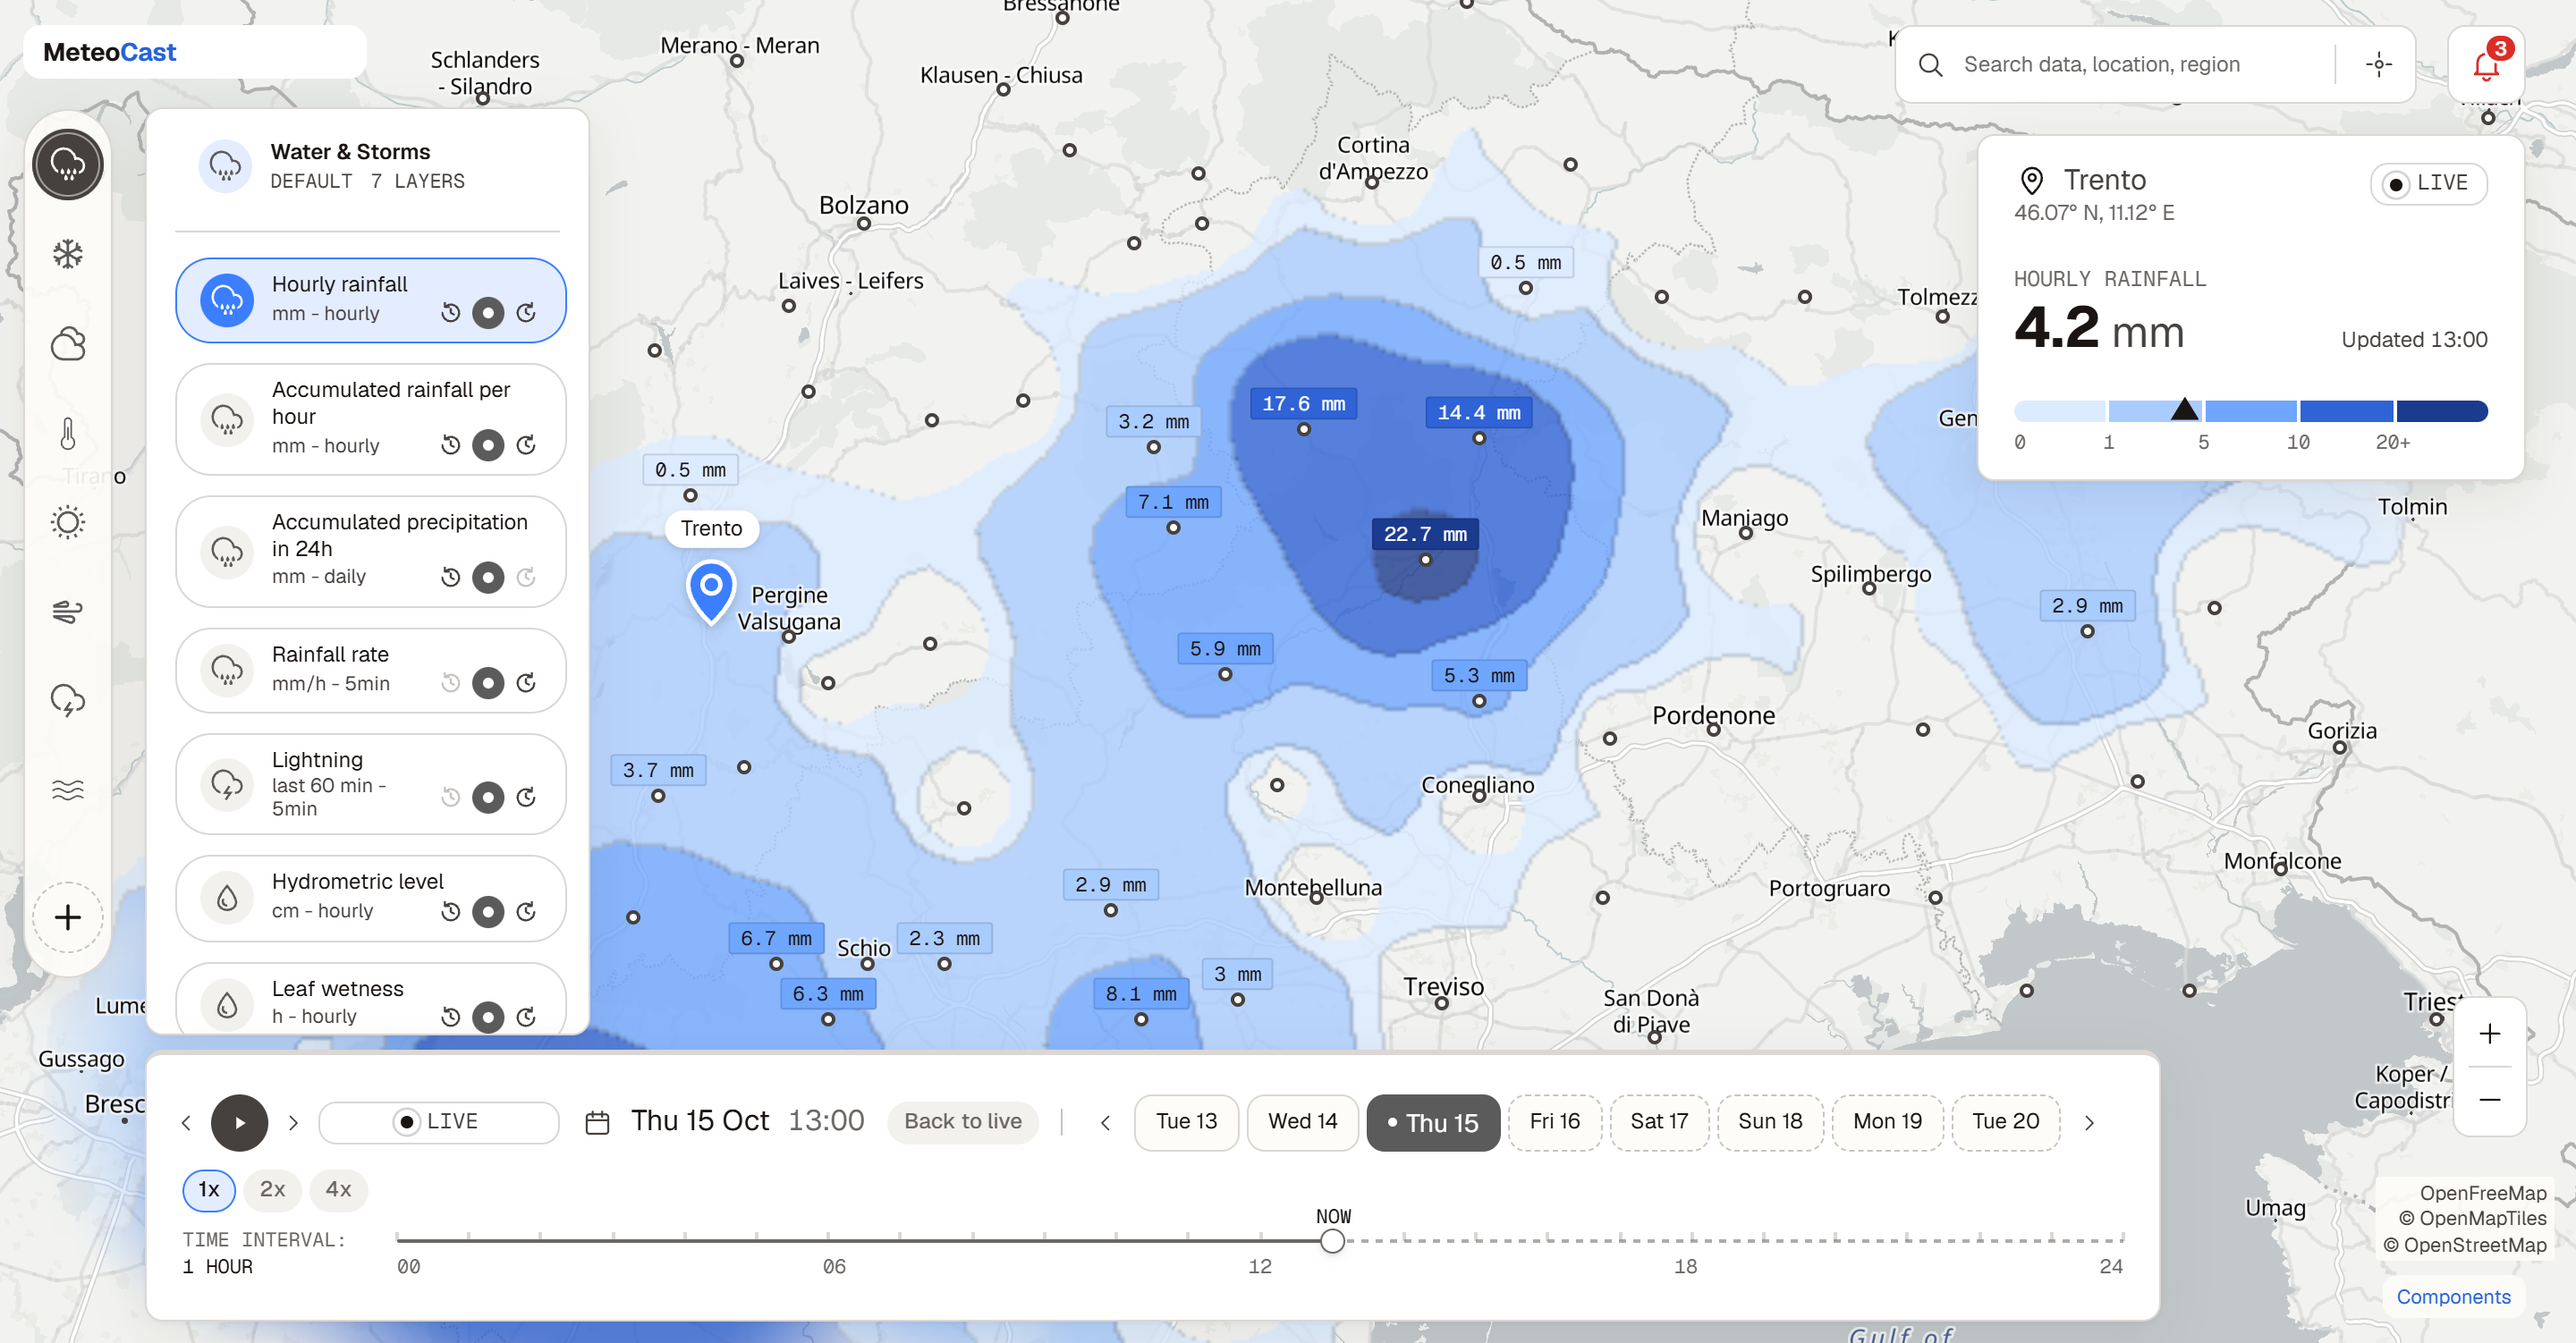
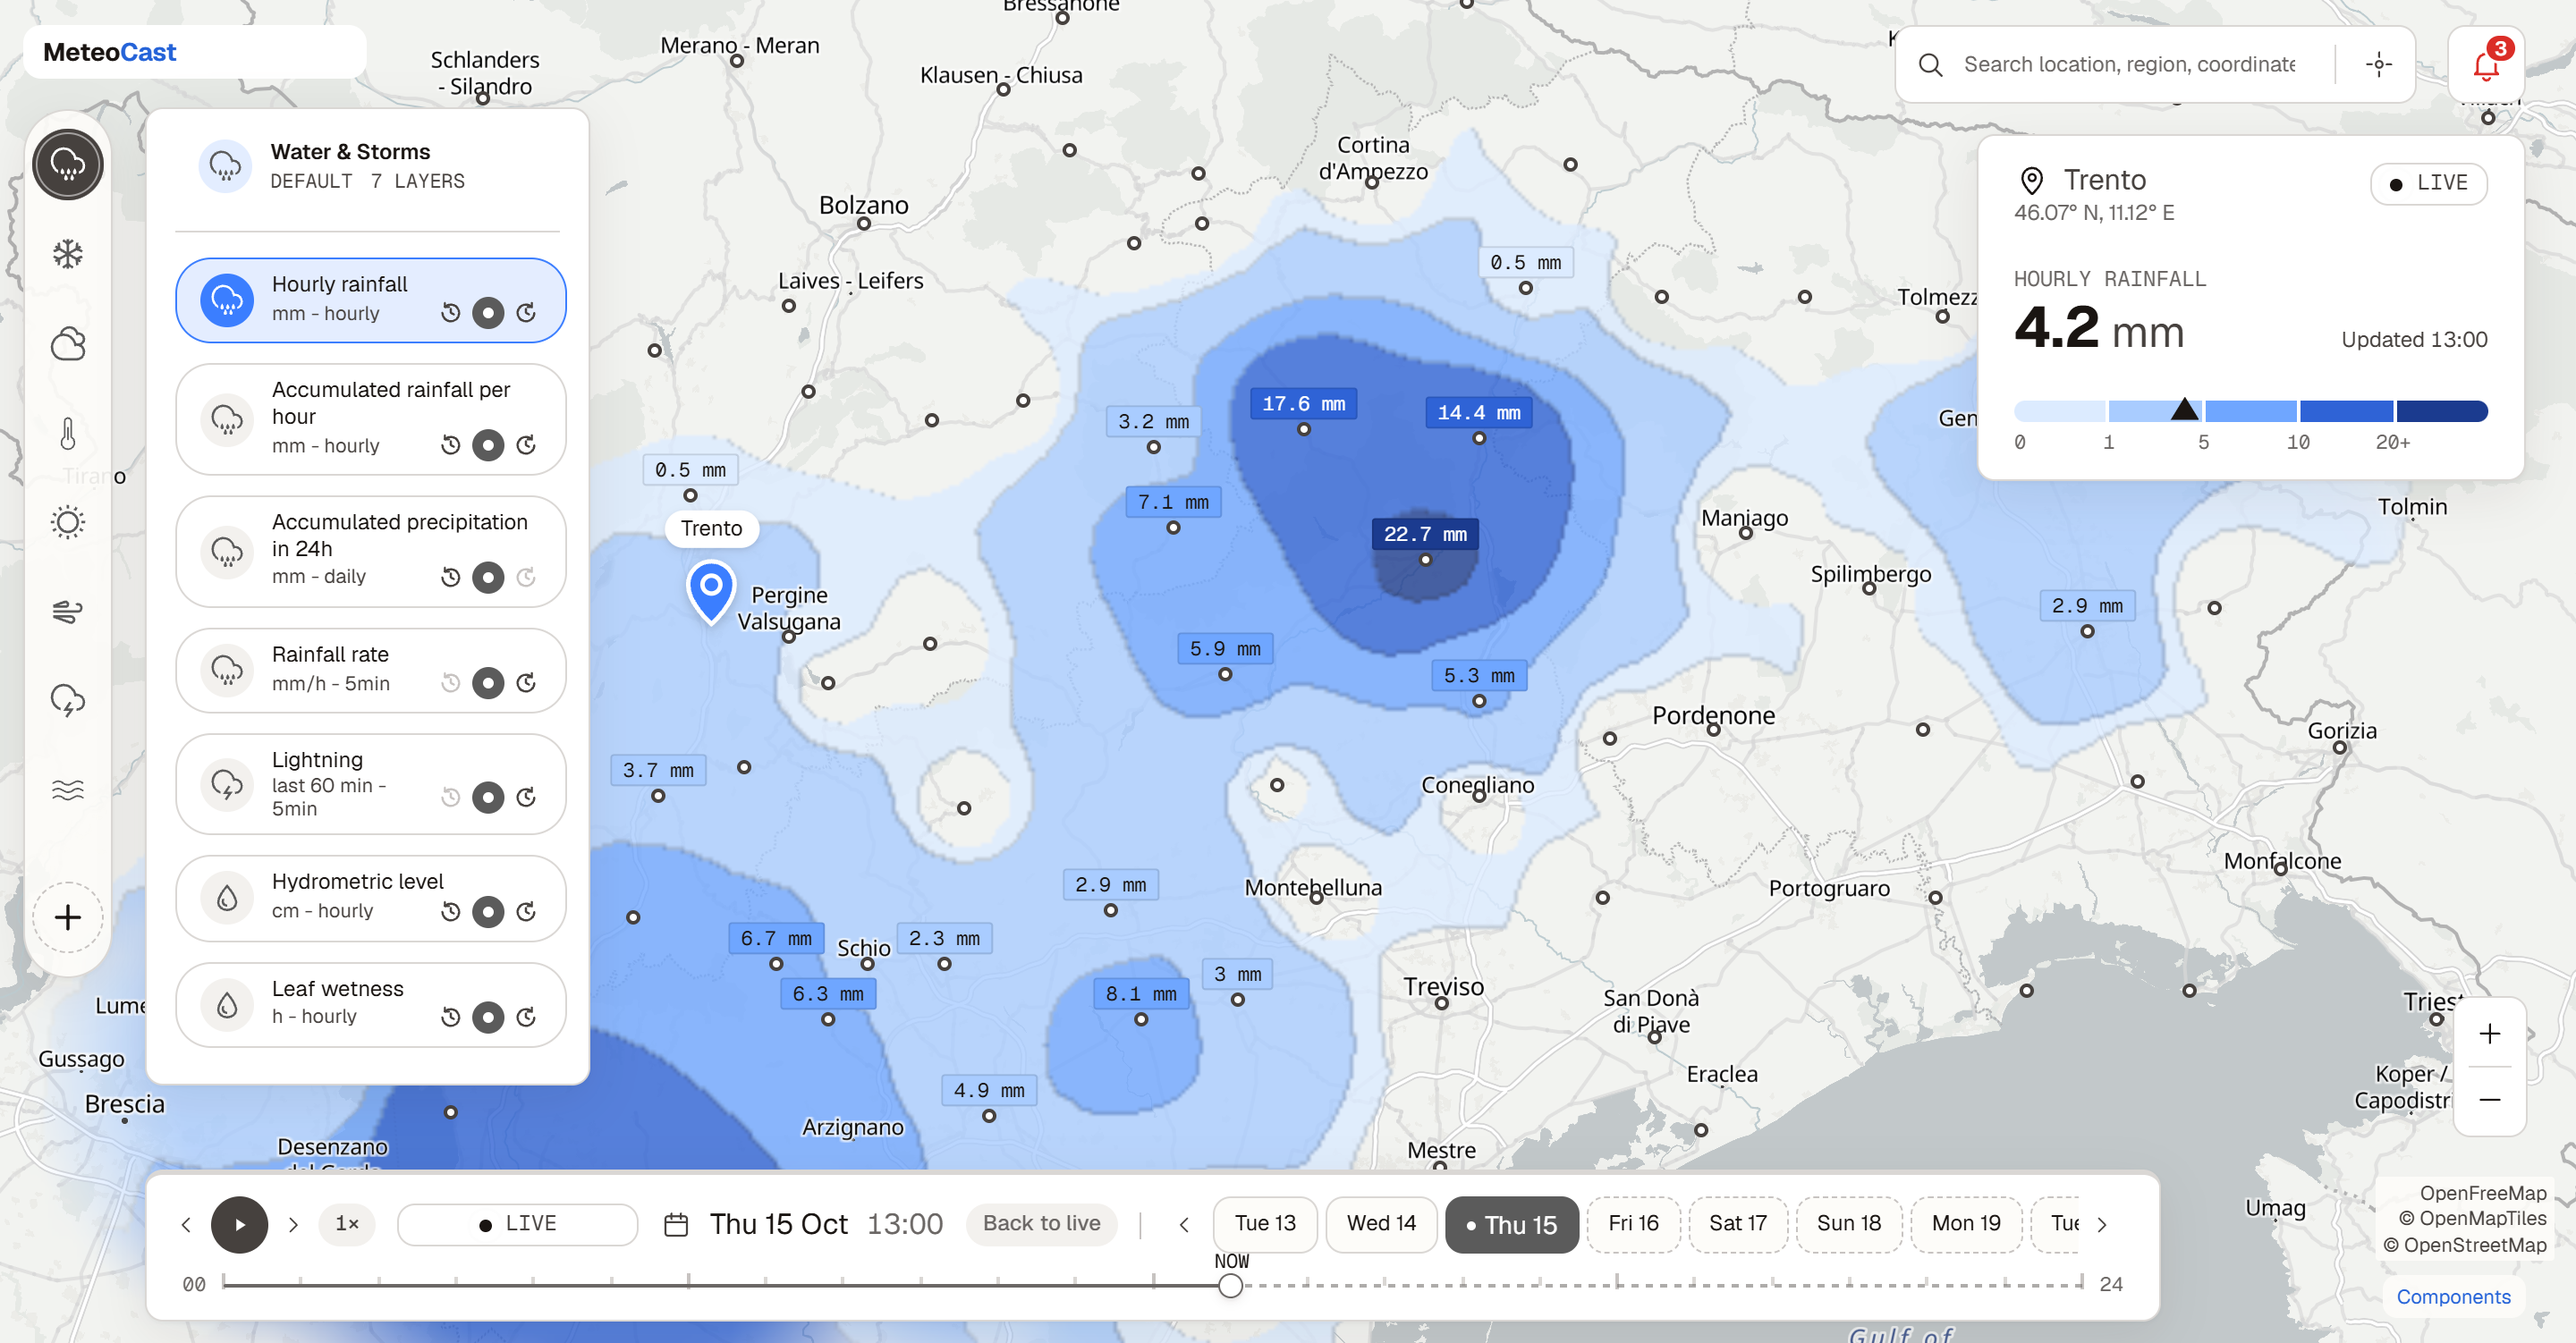
Compact timebar (concept A): two rows, 84px instead of about 150
Designer decision: the timeline was too bulky. Row 1 keeps the controls and
the days, with the playback speed as one button that cycles 1x, 2x, 4x
next to the player. Row 2 is the hour track alone, full width, with 00 and
24 at its ends and longer ticks every 6 hours; the "Time interval" label
goes, the ticks say it. Daily layers: one row, 61px. The layer panel and
the Rail now reach 10px above the timebar.

Changed region(s): [[0.0312, 0.7656, 0.8438, 0.9494], [0.7812, 0.0306, 0.875, 0.0613]]

diff --git a/src/components/Timebar/Timebar.tsx b/src/components/Timebar/Timebar.tsx
@@ -39,6 +39,7 @@ export type TimebarProps = {
 }
 
 const HOURS = Array.from({ length: 25 }, (_, h) => h)
+const SPEEDS: Speed[] = [1, 2, 4]
 const pct = (h: number) => `${(h / 24) * 100}%`
 
 /** Figma: Timeline (2010:10063) — named Timebar in code. One timeline for Archive, Live and Forecast. */
@@ -146,6 +147,17 @@ export function Timebar({
             </button>
           </div>
 
+          {/* One button instead of three chips: each click moves to the next speed (compact timebar, concept A). */}
+          <button
+            type="button"
+            className={styles.speed}
+            aria-label={`${speed}× speed`}
+            title="Playback speed: 1×, 2× or 4×"
+            onClick={() => onSpeedChange?.(SPEEDS[(SPEEDS.indexOf(speed) + 1) % SPEEDS.length])}
+          >
+            {speed}×
+          </button>
+
           <span className={styles.badgeSlot}>
             <ModeBadge mode={mode} offset={offset} />
           </span>
@@ -176,68 +188,47 @@ export function Timebar({
         </div>
       </div>
 
-      <div className={styles.row2}>
-        <div className={styles.speeds} role="group" aria-label="Playback speed">
-          {([1, 2, 4] as const).map((s) => (
-            <button key={s} type="button" className={styles.speed} aria-pressed={speed === s} onClick={() => onSpeedChange?.(s)}>
-              {s}x
-            </button>
-          ))}
-        </div>
-
-        <div className={styles.bottom}>
-          <p className={styles.interval}>
-            <span className={styles.intervalLabel}>Time interval:</span>
-            <span>{daily ? '1 day' : '1 hour'}</span>
-          </p>
-
-          {!daily && (
-            <div className={styles.trackWrap}>
-              <div
-                ref={trackRef}
-                className={styles.track}
-                onPointerDown={onTrackPointerDown}
-                onPointerMove={onTrackPointerMove}
-              >
-                <div className={styles.ticks} aria-hidden="true">
-                  {HOURS.map((h) => (
-                    <span key={h} className={styles.tick} style={{ left: pct(h) }} />
-                  ))}
-                </div>
-                {unavailableHours.map((h) => (
-                  <span key={h} className={styles.gap} style={{ left: pct(h), width: pct(1) }} aria-hidden="true" />
-                ))}
-                {solidTo < 24 && (
-                  <span className={styles.lineDashed} style={{ left: pct(solidTo), right: 0 }} aria-hidden="true" />
-                )}
-                {solidTo > 0 && <span className={styles.lineSolid} style={{ left: 0, width: pct(solidTo) }} aria-hidden="true" />}
-                {selected?.time === 'today' && nowHour !== undefined && (
-                  <span className={styles.now} style={{ left: pct(nowHour) }} aria-hidden="true">
-                    <span className={styles.nowTag}>Now</span>
-                  </span>
-                )}
-                <span
-                  className={styles.thumb}
-                  style={{ left: pct(selectedHour) }}
-                  role="slider"
-                  tabIndex={0}
-                  aria-label="Hour"
-                  aria-valuemin={0}
-                  aria-valuemax={23}
-                  aria-valuenow={selectedHour}
-                  aria-valuetext={valueText}
-                  aria-keyshortcuts="ArrowLeft ArrowRight Shift+ArrowLeft Shift+ArrowRight Home End"
-                />
-              </div>
-              <div className={styles.labels} aria-hidden="true">
-                {['00', '06', '12', '18', '24'].map((l) => (
-                  <span key={l}>{l}</span>
+      {!daily && (
+        <div className={styles.trackRow}>
+          <span className={styles.end} aria-hidden="true">
+            00
+          </span>
+          <div className={styles.trackWrap}>
+            <div ref={trackRef} className={styles.track} onPointerDown={onTrackPointerDown} onPointerMove={onTrackPointerMove}>
+              <div className={styles.ticks} aria-hidden="true">
+                {HOURS.map((h) => (
+                  <span key={h} className={styles.tick} data-major={h % 6 === 0 || undefined} style={{ left: pct(h) }} />
                 ))}
               </div>
+              {unavailableHours.map((h) => (
+                <span key={h} className={styles.gap} style={{ left: pct(h), width: pct(1) }} aria-hidden="true" />
+              ))}
+              {solidTo < 24 && <span className={styles.lineDashed} style={{ left: pct(solidTo), right: 0 }} aria-hidden="true" />}
+              {solidTo > 0 && <span className={styles.lineSolid} style={{ left: 0, width: pct(solidTo) }} aria-hidden="true" />}
+              {selected?.time === 'today' && nowHour !== undefined && (
+                <span className={styles.now} style={{ left: pct(nowHour) }} aria-hidden="true">
+                  <span className={styles.nowTag}>Now</span>
+                </span>
+              )}
+              <span
+                className={styles.thumb}
+                style={{ left: pct(selectedHour) }}
+                role="slider"
+                tabIndex={0}
+                aria-label="Hour"
+                aria-valuemin={0}
+                aria-valuemax={23}
+                aria-valuenow={selectedHour}
+                aria-valuetext={valueText}
+                aria-keyshortcuts="ArrowLeft ArrowRight Shift+ArrowLeft Shift+ArrowRight Home End"
+              />
             </div>
-          )}
+          </div>
+          <span className={styles.end} aria-hidden="true">
+            24
+          </span>
         </div>
-      </div>
+      )}
     </section>
   )
 }

diff --git a/src/components/Timebar/Timebar.module.css b/src/components/Timebar/Timebar.module.css
@@ -1,9 +1,10 @@
 /* Mode is signalled here by: top stripe (3px) + background tint + ModeBadge text/icon. */
+/* Compact (concept A, about 90px instead of 150): controls and days on one row, the hour track on the second. */
 .root {
   display: flex;
   flex-direction: column;
-  gap: 10px;
-  padding: 22px 20px 23px;
+  gap: 12px;
+  padding: 12px 20px 14px;
   background: var(--mode-tint);
   border: 1px solid var(--mode-color);
   border-top: var(--stroke-modestripe) solid var(--mode-color);
@@ -131,68 +132,43 @@
   background: var(--border-strong);
 }
 
-.row2 {
-  display: flex;
-  flex-direction: column;
-  gap: 7px;
-}
-
-.speeds {
-  display: flex;
-  gap: 4px;
-}
-
+/* Playback speed: one button, each click moves to the next speed. Same size and shape as the small toggles. */
 .speed {
-  min-width: var(--size-sm);
+  min-width: var(--size-md);
   height: var(--size-sm);
   padding: 0 8px;
-  border: 1px solid transparent;
   border-radius: var(--radius-lg);
   background: var(--surface-sunken);
-  color: var(--text-tertiary);
+  color: var(--text-secondary);
   font-size: var(--font-size-sm);
   font-weight: 500;
+  font-variant-numeric: tabular-nums;
 }
 
 .speed:hover {
   color: var(--text-primary);
 }
 
-/* Choice controls share one 'selected' look with LayerItem: accent-soft fill + accent border. */
-.speed[aria-pressed='true'] {
-  background: var(--accent-soft);
-  border-color: var(--accent-default);
-  color: var(--text-primary);
-}
+/* ---- Hour track ---- */
 
-.bottom {
+/* 00 and 24 at the ends of a full-width track; the 6-hour ticks are longer, so the hours read without labels. */
+.trackRow {
   display: flex;
-  align-items: flex-end;
-  gap: 20px;
+  align-items: center;
+  gap: 10px;
 }
 
-.interval {
+.end {
   flex: none;
-  display: flex;
-  flex-direction: column;
-  width: 100px;
-  margin: 0;
   font-family: var(--font-mono);
   font-size: var(--font-size-xs);
-  color: var(--text-primary);
-  text-transform: uppercase;
-}
-
-.intervalLabel {
+  line-height: 1;
   color: var(--text-tertiary);
 }
-
-/* ---- Hour track ---- */
 
 .trackWrap {
   flex: 1;
   min-width: 0;
-  padding-top: 4px;
 }
 
 .track {
@@ -214,6 +190,12 @@
   height: 5px;
   translate: -1px 0;
   background: var(--border-default);
+}
+
+.tick[data-major] {
+  top: -2px;
+  height: 9px;
+  background: var(--border-strong);
 }
 
 .lineSolid,
@@ -283,15 +265,6 @@
 .thumb:focus-visible {
   outline: 2px solid var(--accent-strong);
   outline-offset: 2px;
-}
-
-.labels {
-  display: flex;
-  justify-content: space-between;
-  margin-top: 2px;
-  font-family: var(--font-mono);
-  font-size: var(--font-size-xs);
-  color: var(--text-tertiary);
 }
 
 /* WCAG 2.5.8: 24px pointer targets without changing the drawing (UX audit H7). */

diff --git a/src/pages/MapScreen.module.css b/src/pages/MapScreen.module.css
@@ -13,12 +13,12 @@
   top: 14px;
 }
 
-/* Figma height 486px; on short windows it stops 13px above the timebar and its list scrolls. */
+/* Figma height 486px; on short windows it stops 10px above the timebar and its list scrolls. */
 .rail {
   position: absolute;
   left: 13px;
   top: 61px;
-  height: min(486px, calc(100% - 61px - 172px));
+  height: min(486px, calc(100% - 61px - 106px));
   display: flex;
 }
 
@@ -26,8 +26,8 @@
   position: absolute;
   left: 81px;
   top: 60px;
-  /* Ends 13px above the timebar. */
-  bottom: 172px;
+  /* Ends 10px above the timebar (compact timebar: 12px from the bottom, 84px tall). */
+  bottom: 106px;
   display: flex;
   align-items: flex-start;
 }

diff --git a/design-notes/componenti.md b/design-notes/componenti.md
@@ -171,6 +171,7 @@ Altre scelte: "adesso" simulato = Thu 15 Oct 2026 13:00; i livelli a 5 minuti si
 
 - **Mappa e località:** Roma sostituita da Trento, su una mappa reale OpenStreetMap (attenuata) dell'area del prodotto originale, per il prima / dopo del portfolio. Le note qui sopra ("Rome") descrivono il Figma letto il 2026-10-19; le schermate Figma vanno aggiornate con `basemap-1440x840.png`.
 - **Mappa vera:** MapLibre con tile vettoriali chiare di OpenFreeMap (Positron), pan e zoom reali, stazioni e campo su coordinate geografiche. Sostituisce l'immagine statica OSM, che sembrava poco rifinita.
+- **Timebar compatta (concept A, 2026-10-22):** due righe. Riga 1: ‹ ▶ ›, pulsante velocità che cicla 1× → 2× → 4×, badge, data, Back to live, giorni. Riga 2: traccia a tutta larghezza, 00 e 24 alle estremità, tacche lunghe ogni 6 ore. Tolti i tre chip della velocità e "Time interval". 84px invece di circa 150.
 - **Data viz a classi:** cinque classi per famiglia di colore (token `data/<ramp>-1…5`), le stesse per campo, etichette e legenda del Readout. ValueLabel ha due prop nuove, `ramp` e `level`, per il riempimento di classe.
 - **Rete di stazioni:** 88 stazioni con gerarchia (puntini per tutte, valori solo dove piove senza sovrapposizioni, nome e valore al passaggio del mouse) e campo interpolato dalle stazioni. Risponde al prima / dopo: l'originale mostrava tutte le stazioni, il prototipo solo 3–4 valori.
 

diff --git a/DESIGN_QA.md b/DESIGN_QA.md
@@ -87,6 +87,7 @@ Scostamenti da Figma introdotti di proposito dalle correzioni di [UX_REVIEW.md](
 | Pannello livelli | Sezioni Real time / Forecast, stesso dato due volte (13 voci) | Una voce per dato (7 voci in Water & Storms), con le icone delle modalità (`ModeAvailability`); nessuna voce bloccata | U1, decisione del designer: l'utente sceglie il dato, la timeline decide la modalità |
 | Regola 7 | Livello real time in Forecast: Disabled con tooltip | Selezionabile: il tempo va a Live con Toast e Undo | Le voci bloccate scoraggiavano l'utente (decisione del designer) |
 | Cornice di modalità attorno allo schermo | Presente in Archive e Forecast | Rimossa | D7: sei segnali erano troppi, e un bordo attorno allo schermo richiama gli allarmi |
+| Timebar compatta (22 ottobre) | Tre righe, circa 150px: controlli e giorni · chip 1x/2x/4x · "Time interval" e traccia con le ore 00/06/12/18/24 | Due righe, 84px (61 sui dati giornalieri): controlli, velocità e giorni · traccia a tutta larghezza con 00 e 24 alle estremità e tacche più lunghe ogni 6 ore | Decisione del designer (concept A): la timeline era troppo ingombrante. La velocità è un solo pulsante che passa a 1×, 2×, 4×; l'intervallo lo dicono le tacche. Pannello e Rail ora arrivano 10px sopra la timebar |
 | Badge LIVE | Testo terziario | Testo secondario, puntino scuro | Si leggeva come "spento" (U8) |
 
 ## Mappa di Trento (21 ottobre 2026)
